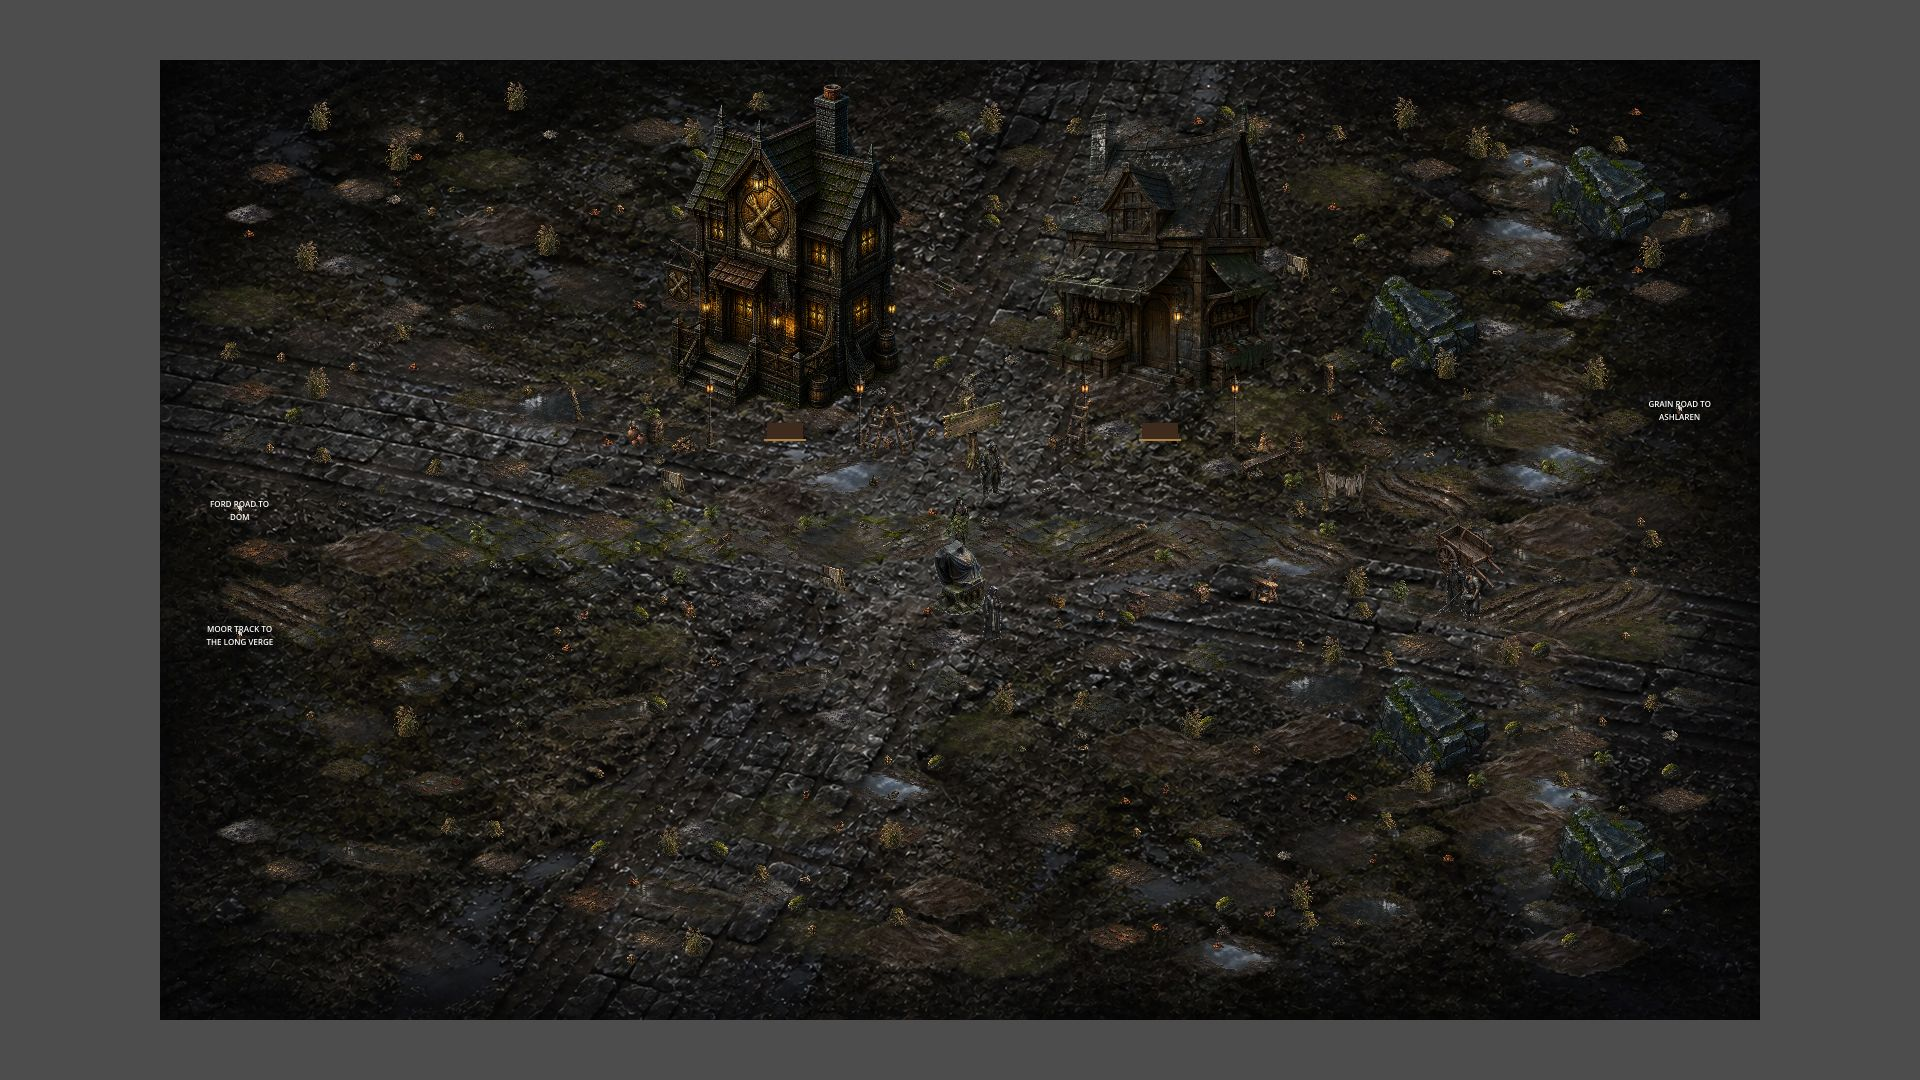
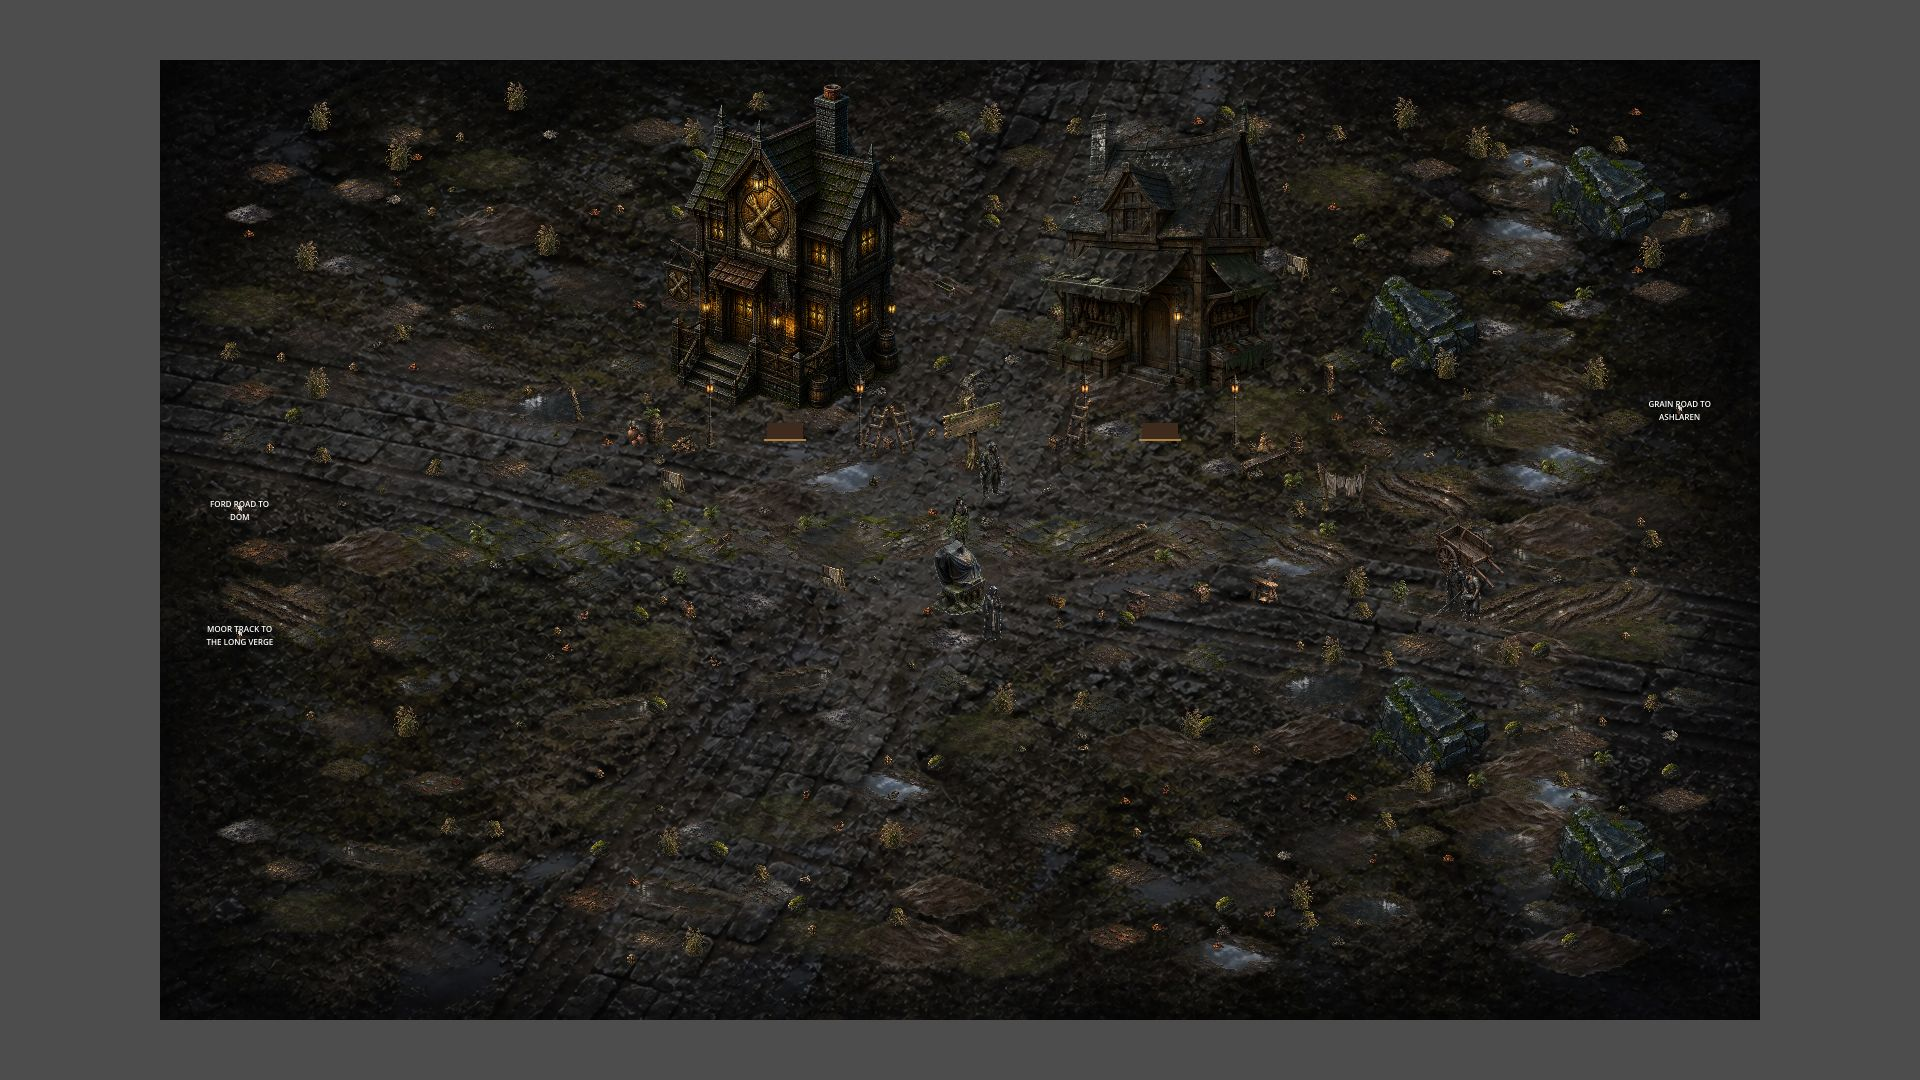
Lived-in Kesselford: calm the painted ground (owner item 32)
Owner 2026-11-02: sprites `approve all`, masters `keep, like Dom`, next
`calm the ground first`. world/dressing/ground_calm.gdshader on
Kesselford's TerrainBackdrop compresses the wet streaks (luminance over
0.2, by 55%) and keeps 72% of fine detail over a 2-texel low-pass; no
hue shift, darks stay deep, so props read on the ground.

- Test: the backdrop carries the calm shader.
- QA: after captures re-rendered with the calmed ground; draw calls
  before/after recorded (18-33 -> 213-478; atlas is the follow-up).
- Owner list: item 32 answered; plan doc updated.

Changed region(s): [[0.4375, 0.55, 0.4688, 0.5806], [0.4062, 0.3972, 0.4375, 0.4278], [0.25, 0.3972, 0.2812, 0.4278]]

diff --git a/docs/owner-decisions.md b/docs/owner-decisions.md
@@ -25,7 +25,6 @@ Nothing is blocking agent work as of 2026-10-22; that day's eight rulings are in
 | 9 | **Provisional prose review (what remains).** The 2026-10-30 approval covered every dialogue file. Still unreviewed: the Sacred Clarity and Read Aloud blurbs and button (`data/combat/actions/73_sacred_clarity.tres`, PR #518); the seven slice-4 signature blurbs and button descriptions (`data/combat/actions/68`–`72`, PR #516); the Slow Rot blurb (PR #515); the three Hollowmere NPC documents (`canon/hollowmere/characters/*.json`) and the Hollowmere district greeting/farewell pairs in `tools/seed_town_npcs.gd`, generated into `dialogue/hollowmere_townsfolk.dialogue`; the 20 NPC entities promoted into the Dramgid vault; Themka Gaath's `hook_summary`; and the marked quest text in `quests/dorthkor_road.tres`, `quests/main/the_unanswered_roar.tres` and `tools/seed_phase_one_pandora.gd` (encounter names, trial weakness names). | Edit in place, or `9: approved` | 20 min |
 | 11 | **Game-identity open questions** (`docs/game-identity.md`). (a) Minimum skill set for Chapter 1: content checks 10 of 22 today — undertone, unweave, sway, slip, recall, wayfinding, varum, strain, sounding, beastbond. Bellow is never checked although Karma feeds it. (c) Loot density target for a field game with a Mirror Shop. ~~(b) fleeing ambient fights~~ ruled 2026-10-22: yes, by leaving the alert radius. — filed as #506 (ratify the shipped D7 rule, drop the PROVISIONAL prefixes, strike the open question, set-piece regression test); PR #510 open 2026-10-24.| `11a: the 10` or add names; `11c: a number or defer` | 5 min |
 | 12 | **Steam.** Price $9.99 vs $19.99, release date, and whether the Steamworks partner account exists (30-day first-release wait after the fee clears). | `12: $X, date, account yes/no` | 5 min |
-| 32 | **Lived-in Kesselford: finished greebles and the look** (PR #565). Second approval of the 84 greeble sprites (art bible Part III), from the four contact sheets in `docs/qa/lived-in-2026-11-02/`; then the dressed Kesselford from its before/after captures and in the playtest build. Density, scale and the bright backdrop are all tunable; the two brown door placeholders are known. | `32: approve all` / `32: redo <ids>` / `32: look — <notes>` | 10 min |
 
 ## 3. Provide — things only you can do
 
@@ -42,6 +41,7 @@ Nothing is blocking agent work as of 2026-10-22; that day's eight rulings are in
 
 ## 5. Answered (log, newest first)
 
+- 2026-11-02 — Item 32 (asked in session; all three recommended options). Finished greebles: `approve all` — the 84 sprites on the four contact sheets in `docs/qa/lived-in-2026-11-02/` are approved assets. Masters: `keep, like Dom` — the 117 MB commit stays on PR #565. Next for maps: `calm the ground first` — Kesselford's painted ground is calmed (no hue shift; highlights compressed, fine detail quieted) before the M6 roll-out. The owner's playtest judges the look.
 - 2026-11-02 — Item 31 (asked in session): `approve all ~84` — the greeble asset list in `docs/design/map-lived-in-plan-2026-11-02.md` as written. Codex image_gen batches start, ground first; each finished batch comes back as a contact sheet for a second approval.
 - 2026-11-02 — Lived-in maps (asked in session; all four recommended options). Request: overhaul the maps to read like Fallout's, with many small greeble assets so the world feels lived in. Greebles: `painterly batch via Codex` (the Dom props pipeline; the asset list is approved first, item 31, and each finished batch after). First map: `Kesselford, then roll out`. Density: `dense; small decor walkable` (small greebles are walk-through decor, bigger pieces are solid and give cover, routes and interactables stay clear; replaces the art bible's restrained field-dressing rule). Palette: `keep our gothic palette` (borrow Fallout's density, ground variety and clutter, not its colours). Plan: `docs/design/map-lived-in-plan-2026-11-02.md`.
 - 2026-10-30 — Item 9, dialogue prose (asked in session, review page): `all approved`. 43 blocks across 12 files: `hollowmere_side_quests`, `council_elder`, `lower_trial_hall`, `main/unanswered_roar`, `dom_fame_reactions` (Fame and Karma routes), `marshal_coiljaw` and `iris_illepah` read-backs, Themka Gaath's context line (`dom_townsfolk`, regenerated from canon), and the four `locations/*` ambient files. Their PROVISIONAL markers became a canon-reviewed note. The rest of item 9 stays open.

diff --git a/docs/design/map-lived-in-plan-2026-11-02.md b/docs/design/map-lived-in-plan-2026-11-02.md
@@ -57,9 +57,13 @@ captures, four contact sheets, the scale sheet).
 | M4 | 84 sprites, four parallel Codex lanes (`gpt-6-astra`), prepared by the new `tools/prepare_greeble_assets.gd`. Provenance and masters: `assets/generated/sources/kesselford-greebles-2026-11-02/` (`batch.json`; 117 MB of masters, as Dom kept). | A new prepare tool: ground decals need 512×256 canvases and noisy feathered edges, which the prop tool does not do. |
 | M5 | 211 ground decals, 272 standing pieces (79 solid, 11 give cover), 284 contact shadows. A cobble band replaces the eight paving stamps. A wet-bank pass (puddles, mud, reeds) replaces the ten ford-puddle and five mud-edge stamps. | About 480 generated nodes, above the 300–400 target. The 5v5 demo check runs where the demo lives (PR #564 / the playtest merge). |
 
+Ground calmed (owner item 32, `calm the ground first`): `world/dressing/ground_calm.gdshader`
+on Kesselford's `TerrainBackdrop` compresses the bright wet streaks (luminance above 0.2, by
+55%) and keeps 72% of the fine detail over a 2-texel low-pass. No hue shift, and the darks stay deep.
+Other maps that share the Dom backdrop get it in M6.
+
 Known and not changed here: the two brown door placeholders (`WayhouseDoor`,
-`ChandleryDoor`) come from the shared door scene; the bright, high-contrast backdrop still
-competes with small props. Both are candidates for the owner's look review.
+`ChandleryDoor`) come from the shared door scene.
 
 ## Asset list for approval (~84)
 
@@ -171,6 +175,5 @@ implies canon. Notes on paper are blank scraps. **S** = solid (blocks, may give 
 ## Open for the owner
 
 1. ~~Approve the asset list above~~ — approved 2026-11-02 (`approve all ~84`).
-2. Approve the finished sprites, or name the ones to redo, from the four contact sheets in
-   `docs/qa/lived-in-2026-11-02/`; then the Kesselford look from the before/after captures
-   (owner item 32).
+2. ~~Approve the finished sprites~~ — approved 2026-11-02 (item 32: `approve all`; masters
+   kept; `calm the ground first`). The look is judged in the owner's playtest.

diff --git a/docs/qa/lived-in-2026-11-02/README.md b/docs/qa/lived-in-2026-11-02/README.md
@@ -6,7 +6,7 @@ Plan and as-built notes: `docs/design/map-lived-in-plan-2026-11-02.md`. Owner re
 ## Captures (1920×1080, camera zoom 1; overview at zoom 0.5)
 
 Rendered under Xvfb by `test/manual/lived_in_capture.gd` with the HUD and title screen hidden.
-"Before" is `origin/main` at `9e1ee0f9`; "after" is this branch, dressing seed 1102.
+"Before" is `origin/main` at `9e1ee0f9`; "after" is this branch: dressing seed 1102 and the calmed ground (`world/dressing/ground_calm.gdshader`).
 
 | Spot | Before | After |
 |---|---|---|
@@ -15,7 +15,9 @@ Rendered under Xvfb by `test/manual/lived_in_capture.gd` with the HUD and title 
 | Chandlery front (1900, 860) | `before-chandlery.jpg` | `after-chandlery.jpg` |
 | South yards (1500, 1400) | `before-south-yards.jpg` | `after-south-yards.jpg` |
 
-Draw calls on `main` (before): wayhouse 18, chandlery 28, south yards 16, overview 33.
+Draw calls per frame, before → after: wayhouse 18 → 226, chandlery 28 → 263, south yards
+16 → 213, overview 33 → 478 (84 separate textures; an atlas would batch them). The scene has
+767 nodes. Frame time on real hardware stays with FR-904 (owner item 14).
 
 Counts after: 211 ground decals, 272 standing pieces (79 solid, 11 cover), 284 contact
 shadows, 79 Blocking cells painted at load.
